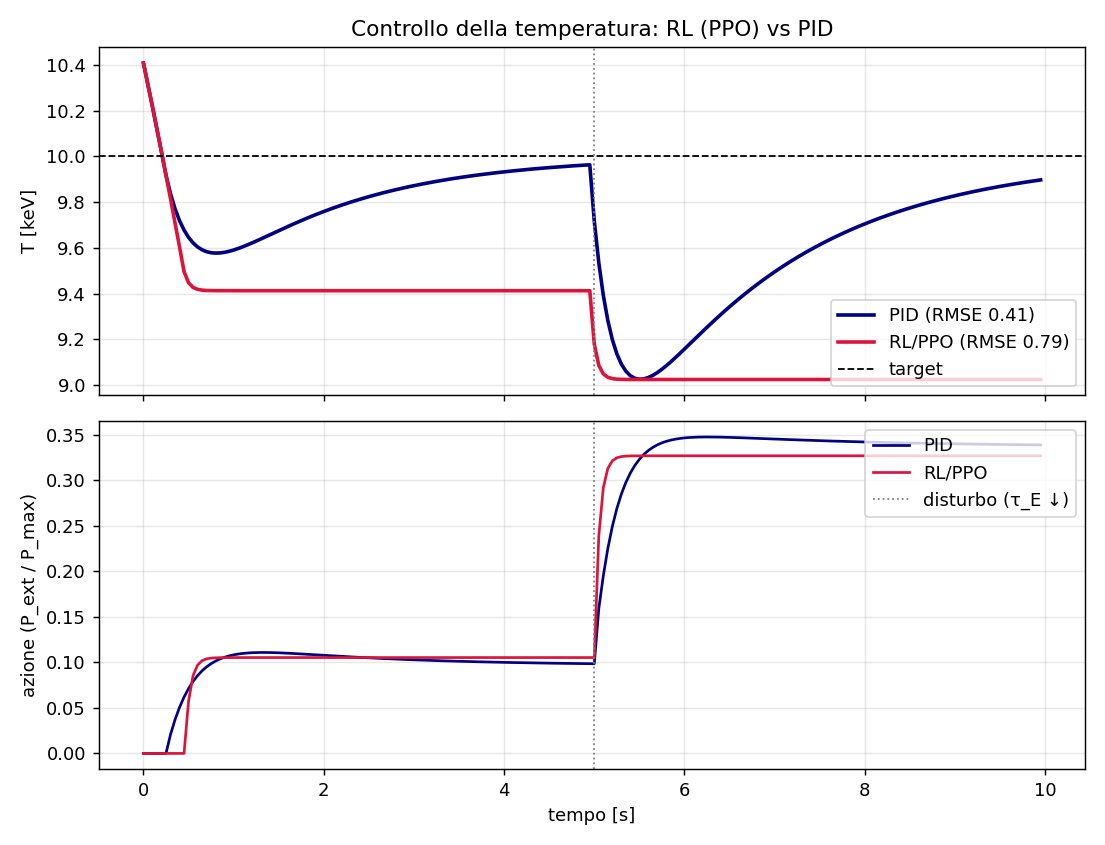
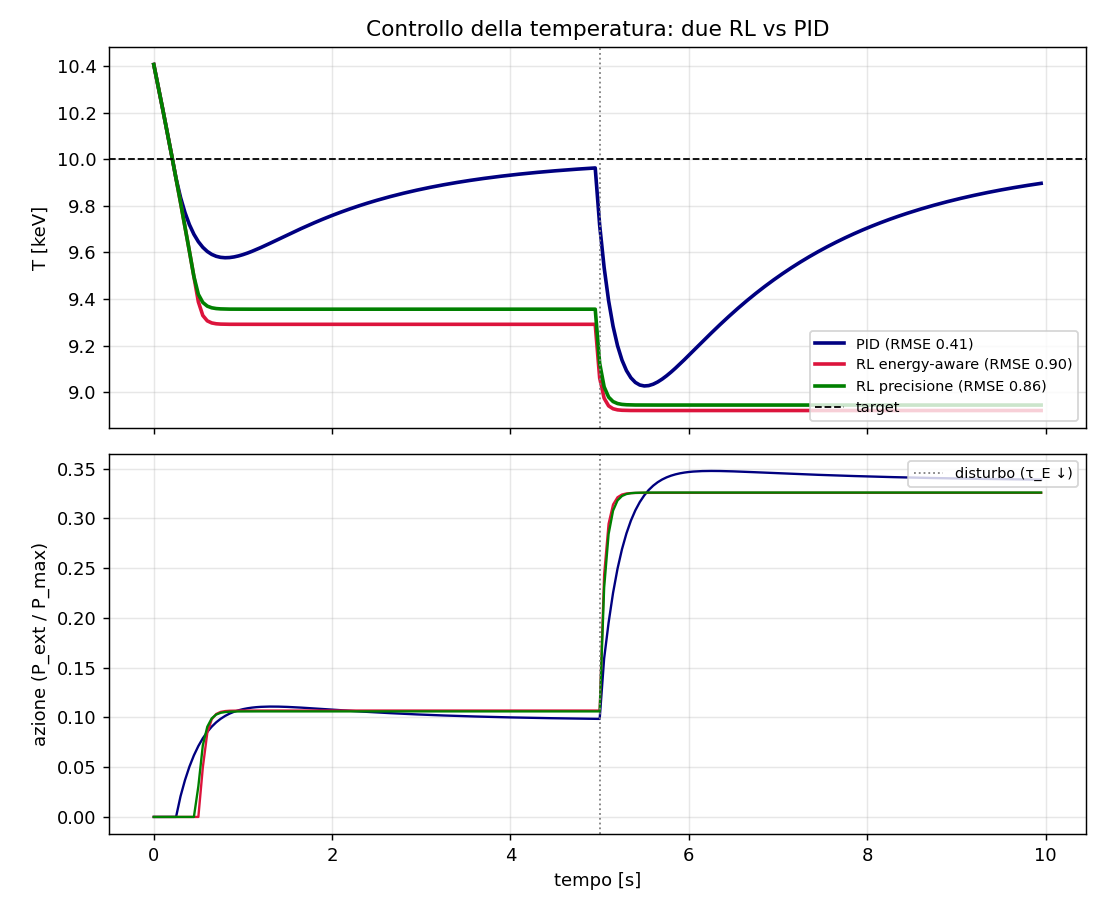
feat: three-way RL control comparison (energy-aware vs precision vs PID)
- Aggiunto secondo agente PPO con action_cost~0 (curva 'precisione')

- Esperimento controllato: l'offset RL NON dipende dal reward shaping ma

  dall'architettura (policy senza memoria, non osserva tau_E -> niente integrale)

- README aggiornato con tabella RMSE a tre vie e la conclusione corretta

diff --git a/notebooks/rl_control_demo.py b/notebooks/rl_control_demo.py
@@ -1,12 +1,16 @@
-"""Controllo del plasma con RL: agente PPO vs PID, con reiezione del disturbo.
+"""Controllo del plasma con RL: due agenti PPO vs PID, con reiezione del disturbo.
 
-Addestra un agente PPO a regolare il riscaldamento per tenere T al target, poi
-lo confronta col PID (Fase 4A) sulla STESSA dinamica e sullo stesso scenario
-(con un degrado di confinamento a meta' episodio). Mostra T(t) e l'azione per
-entrambi, e l'errore quadratico medio.
+Esperimento controllato su tre controllori, sulla STESSA dinamica e scenario
+(disturbo: degrado di confinamento a meta' episodio):
 
-Risultato riportato onestamente: che l'RL batta o pareggi il PID, e' un
-confronto istruttivo (il PID e' gia' molto buono su un sistema cosi' semplice).
+- PID (Fase 4A): regolatore classico, con termine integrale;
+- RL "energy-aware" (action_cost alto): premiato anche per risparmiare potenza;
+- RL "precisione" (action_cost ~ 0): premiato quasi solo per stare sul target.
+
+Domanda: senza dargli la fisica, l'RL "precisione" batte il PID? E quanto
+conta il reward shaping (confronto coi due RL)?
+
+Risultato riportato onestamente, qualunque sia.
 """
 
 from __future__ import annotations
@@ -32,48 +36,60 @@ DOCS = Path(__file__).resolve().parent.parent / "docs"
 PID_GAINS = dict(kp=2e5, ki=1e5, kd=2e3)
 
 
-def _rmse_to_target(T: np.ndarray, target: float) -> float:
+def _rmse(T: np.ndarray, target: float) -> float:
     return float(np.sqrt(np.mean((T - target) ** 2)))
 
 
 def main() -> None:
+    seed_eval = 7
+    timesteps = 80000
+
     t0 = time.perf_counter()
-    print("Addestramento PPO (puo' richiedere qualche minuto)...")
-    # action_cost basso: l'agente non "baratta" precisione per risparmio di
-    # potenza, quindi insegue il target piu' da vicino (vedi README).
-    model = train_ppo(timesteps=80000, seed=0, disturb_step=100, action_cost=1e-4)
-    print(f"Addestrato in {time.perf_counter() - t0:.0f} s")
+    print("Addestramento RL 'energy-aware' (action_cost alto)...")
+    model_eco = train_ppo(timesteps=timesteps, seed=0, disturb_step=100, action_cost=1e-3)
+    print("Addestramento RL 'precisione' (action_cost ~ 0)...")
+    model_pre = train_ppo(timesteps=timesteps, seed=0, disturb_step=100, action_cost=1e-6)
+    print(f"Due agenti addestrati in {time.perf_counter() - t0:.0f} s")
 
-    # Scenario di valutazione identico per entrambi (stesso seed -> stessa T0).
-    seed = 7
-    env_rl = FusionControlEnv(disturb_step=100, n_steps=200)
-    env_pid = FusionControlEnv(disturb_step=100, n_steps=200)
-    res_rl = run_episode(env_rl, rl_policy(model), seed=seed)
-    res_pid = run_episode(env_pid, pid_policy(env_pid, **PID_GAINS), seed=seed)
-    target = env_rl.T_target
-    t_axis = np.arange(env_rl.n_steps) * env_rl.dt
-    t_dist = 100 * env_rl.dt
+    # Valutazione: stesso scenario per tutti (stesso seed -> stessa T0).
+    def episode(make_act):
+        env = FusionControlEnv(disturb_step=100, n_steps=200)
+        return run_episode(env, make_act(env), seed=seed_eval)
 
-    rmse_rl = _rmse_to_target(res_rl["T"], target)
-    rmse_pid = _rmse_to_target(res_pid["T"], target)
-    print(f"RMSE al target  ->  RL: {rmse_rl:.3f} keV  |  PID: {rmse_pid:.3f} keV")
+    res_pid = episode(lambda env: pid_policy(env, **PID_GAINS))
+    res_eco = episode(lambda env: rl_policy(model_eco))
+    res_pre = episode(lambda env: rl_policy(model_pre))
+    target = 10.0
+    dt = FusionControlEnv().dt
+    t_axis = np.arange(200) * dt
+    t_dist = 100 * dt
 
-    fig, (a1, a2) = plt.subplots(2, 1, figsize=(8.5, 6.5), sharex=True)
-    a1.plot(t_axis, res_pid["T"], color="navy", lw=2, label=f"PID (RMSE {rmse_pid:.2f})")
-    a1.plot(t_axis, res_rl["T"], color="crimson", lw=2, label=f"RL/PPO (RMSE {rmse_rl:.2f})")
+    rmse = {k: _rmse(r["T"], target) for k, r in
+            [("PID", res_pid), ("RL eco", res_eco), ("RL precisione", res_pre)]}
+    print("RMSE al target [keV]:", {k: round(v, 3) for k, v in rmse.items()})
+
+    fig, (a1, a2) = plt.subplots(2, 1, figsize=(8.5, 7), sharex=True)
+
+    a1.plot(t_axis, res_pid["T"], color="navy", lw=2,
+            label=f"PID (RMSE {rmse['PID']:.2f})")
+    a1.plot(t_axis, res_eco["T"], color="crimson", lw=2,
+            label=f"RL energy-aware (RMSE {rmse['RL eco']:.2f})")
+    a1.plot(t_axis, res_pre["T"], color="green", lw=2,
+            label=f"RL precisione (RMSE {rmse['RL precisione']:.2f})")
     a1.axhline(target, color="black", ls="--", lw=1, label="target")
     a1.axvline(t_dist, color="gray", ls=":", lw=1)
     a1.set_ylabel("T [keV]")
-    a1.set_title("Controllo della temperatura: RL (PPO) vs PID")
-    a1.legend(loc="lower right")
+    a1.set_title("Controllo della temperatura: due RL vs PID")
+    a1.legend(loc="lower right", fontsize=8)
     a1.grid(True, alpha=0.3)
 
-    a2.plot(t_axis, res_pid["action"], color="navy", lw=1.5, label="PID")
-    a2.plot(t_axis, res_rl["action"], color="crimson", lw=1.5, label="RL/PPO")
+    a2.plot(t_axis, res_pid["action"], color="navy", lw=1.3)
+    a2.plot(t_axis, res_eco["action"], color="crimson", lw=1.3)
+    a2.plot(t_axis, res_pre["action"], color="green", lw=1.3)
     a2.axvline(t_dist, color="gray", ls=":", lw=1, label="disturbo (τ_E ↓)")
     a2.set_xlabel("tempo [s]")
     a2.set_ylabel("azione (P_ext / P_max)")
-    a2.legend(loc="upper right")
+    a2.legend(loc="upper right", fontsize=8)
     a2.grid(True, alpha=0.3)
 
     fig.tight_layout()

diff --git a/README.md b/README.md
@@ -317,18 +317,26 @@ vettoriale (regressione funzionale). Sui profili di test: **R² ≈ 0.99**, RMSE
 ![Controllo RL](docs/rl_control.png)
 
 Sulla scia di DeepMind/TCV (*Nature* 2022), un agente **PPO** (gymnasium +
-stable-baselines3) impara a regolare il riscaldamento per tenere la temperatura
-al target, **senza modello e senza guadagni** — solo per tentativi. Confronto
-onesto col PID (Fase 4A) sulla stessa dinamica e con lo stesso disturbo:
+stable-baselines3) impara a regolare il riscaldamento, **senza modello e senza
+guadagni** — solo per tentativi. Esperimento controllato a tre vie sulla stessa
+dinamica e disturbo, con RMSE al target [keV]:
 
-- l'RL impara un controllore **veloce e stabile** da zero;
-- ma il **PID ben tarato è più preciso** (RMSE 0.41 vs 0.79 keV): grazie al
-  termine integrale azzera l'errore stazionario, mentre l'agente RL conserva un
-  piccolo offset.
+| Controllore | RMSE | Note |
+|---|---|---|
+| **PID** (Fase 4A) | **0.41** | centra il target (termine integrale) |
+| RL energy-aware (costo potenza alto) | 0.90 | veloce, ma offset sotto il target |
+| RL precisione (costo potenza ≈ 0) | 0.86 | offset quasi invariato |
 
-È l'esito atteso: su un sistema così semplice il PID è quasi imbattibile; il
-vantaggio dell'RL emerge su sistemi complessi e ad alta dimensione (come il
-controllo magnetico multi-bobina di TCV). Richiede l'extra `[rl]`.
+Il risultato è **istruttivo**: abbassare il costo della potenza *non* elimina
+l'offset dell'RL. La causa non è il reward shaping ma l'**architettura del
+controllore**: la policy RL è senza memoria (mappa stato→azione e non osserva
+`τ_E`), quindi non può azzerare un disturbo costante — allo stesso stato
+servirebbero azioni diverse prima e dopo il disturbo. Il PID ci riesce proprio
+grazie al **termine integrale**, che accumula la storia dell'errore.
+
+Morale (onesta): su un sistema così semplice il controllo classico è quasi
+imbattibile; il vantaggio dell'RL emerge su sistemi complessi e ad alta
+dimensione (controllo magnetico multi-bobina di TCV). Richiede l'extra `[rl]`.
 
 ## Validazione
 